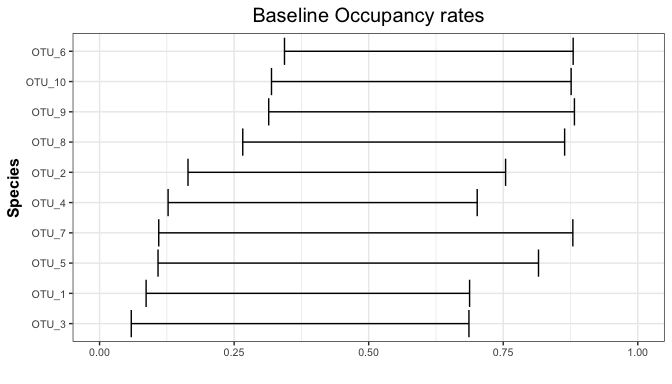
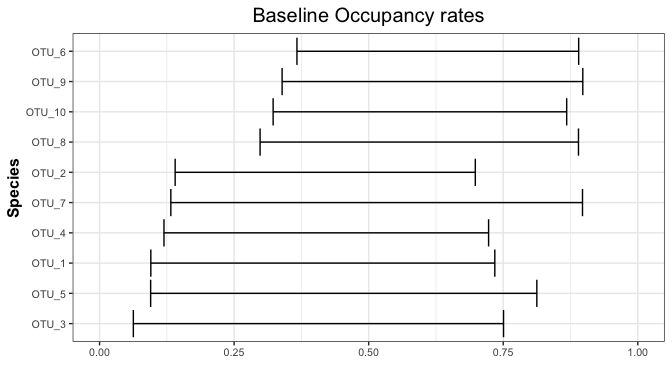
Document parallel chains in NEWS and the quickstart, and mark the stale thread note superseded

diff --git a/vignettes/occJSDM-00-quickstart.md b/vignettes/occJSDM-00-quickstart.md
@@ -69,7 +69,7 @@ head(sampledata$traits)
 It has three parts:
 
 - `info` has one row per PCR reaction: the `Site`, the field `Sample` the DNA came from, the `Primer`, and the covariates. Columns beginning `X_psi.` are occupancy covariates, columns beginning `X_theta.` are collection covariates, and `Xs.1` and `Xs.2` are the site coordinates.
-- Look at the `info` dataframe in detail. How many rows are there per site? Why?
+- Look at the `info` dataframe in detail. How many rows are there per site? Can you see why the number of PCRs per sample is `K = 2`?
 
 ``` r
 View(sampledata$info)
@@ -83,7 +83,7 @@ View(sampledata$info)
 
 ## Fit the model
 
-You can either load the precomputed model results from `sampleresults` or fit the model live. Fitting live will take up to several minutes depending on your machine but has the advantage of testing whether your machine can run occJSDM. On the other hand, using the same seed number only produces *exactly* the same results as in `sampleresults` if run on the same machine and software (M4 MacBook Air, macOS 27.0.1, R 4.5.0) and with the same model arguments (priors, number of chains). Running on a different platform could result in small numerical differences.
+You can either load the precomputed model results from `sampleresults` or fit the model live. Fitting live will take up to several minutes depending on your machine but has the advantage of testing whether your machine can run occJSDM. On the other hand, using the same seed number only produces *exactly* the same results as in `sampleresults` if run on the same machine and software (M4 MacBook Air, macOS 27.0.1, R 4.6.1) and with the same model arguments (priors, number of chains). Running on a different platform could result in small numerical differences.
 
 Choose this option
 
@@ -107,7 +107,7 @@ fit <- runOccJSDM(
   - The example includes the `spatCovariates` line to show how the full model is specified. The beta’s spatial model is very underpowered, though, so we recommend leaving that line out of your own fits for now.
 - The optional species trait data are taken from `sampledata$traits`.
 - `n_factors` is the number of latent factors that capture associations between species.
-- `MCMCparams` sets the number of chains, the burn-in and kept iterations, and the thinning.
+- `MCMCparams` sets the number of chains, the burn-in and kept iterations, and the thinning. Adding `ncores = 2` to the list runs the two chains on two cores at once; `ncores` is the total number of cores the fit may use.
 - The priors have defaults, which `listPriors` changes. `?runOccJSDM` describes every argument.
 
 Or choose this option. The rest of the lesson uses these precomputed results.
@@ -126,14 +126,14 @@ summary(diagnostics$rhat)
 ```
 
     #>    Min. 1st Qu.  Median    Mean 3rd Qu.    Max. 
-    #>  0.9999  1.0002  1.0010  1.0054  1.0053  1.0830
+    #>  0.9999  1.0002  1.0011  1.0060  1.0046  1.1009
 
 ``` r
 summary(diagnostics$ess)
 ```
 
     #>    Min. 1st Qu.  Median    Mean 3rd Qu.    Max. 
-    #>   137.7   438.0  2169.3  2538.8  4272.3  8402.3
+    #>   90.99  501.57 2172.56 2566.34 4163.83 9277.94
 
 ``` r
 head(diagnostics[order(-diagnostics$rhat), c("param", "label1", "label2", "rhat", "ess")])
@@ -142,19 +142,20 @@ head(diagnostics[order(-diagnostics$rhat), c("param", "label1", "label2", "rhat"
     #> # A tibble: 6 × 5
     #>   param      label1         label2  rhat   ess
     #>   <chr>      <chr>          <chr>  <dbl> <dbl>
-    #> 1 theta0     OTU_3          1       1.08  269.
-    #> 2 theta0     OTU_5          1       1.04  240.
-    #> 3 beta_psi   X_psi.EnvCov.2 OTU_7   1.04  151.
-    #> 4 beta0_psi  OTU_6          1       1.04  418.
-    #> 5 beta_theta (Intercept)    OTU_7   1.03  807.
-    #> 6 beta_psi   X_psi.EnvCov.2 OTU_5   1.03  148.
+    #> 1 theta0     OTU_3          1       1.10  170.
+    #> 2 beta_psi   X_psi.EnvCov.2 OTU_3   1.08  169.
+    #> 3 beta_psi   X_psi.EnvCov.1 OTU_3   1.05  166.
+    #> 4 beta0_psi  OTU_8          1       1.03  426.
+    #> 5 beta_theta (Intercept)    OTU_5   1.03  548.
+    #> 6 beta_psi   X_psi.EnvCov.2 OTU_6   1.03  311.
 
-`summary()` is base R’s own function, not occJSDM’s, so its help page is `?base::summary`. For a numeric column it reports the minimum, the quartiles, the mean and the maximum.
+`summary()` is base R’s own function, and for a numeric column it reports the minimum, the quartiles, the mean and the maximum.
 
 To browse the whole table, sorted with the worst `rhat` first:
 
 ``` r
-View(diagnostics[order(-diagnostics$rhat), c("param", "label1", "label2", "rhat", "ess")])
+View(diagnostics[order(-diagnostics$rhat), 
+                 c("param", "label1", "label2", "rhat", "ess")])
 ```
 
 `rhat` compares the chains with each other: values close to 1 mean they agree, and larger values call for longer runs or a closer look at the parameters concerned.
@@ -164,12 +165,13 @@ View(diagnostics[order(-diagnostics$rhat), c("param", "label1", "label2", "rhat"
 A common rule of thumb flags any coefficient with `rhat > 1.01` or `ess < 400`:
 
 ``` r
-nonconvergedcoefs <- diagnostics[order(-diagnostics$rhat), c("param", "label1", "label2", "rhat", "ess")] |>
-  dplyr::filter(rhat > 1.01 | ess < 400)
+nonconvergedcoefs <- diagnostics[order(-diagnostics$rhat), 
+                          c("param", "label1", "label2", "rhat", "ess")] |>
+          dplyr::filter(rhat > 1.01 | ess < 400)
 nrow(nonconvergedcoefs)
 ```
 
-    #> [1] 35
+    #> [1] 31
 
 ``` r
 head(nonconvergedcoefs)
@@ -178,16 +180,16 @@ head(nonconvergedcoefs)
     #> # A tibble: 6 × 5
     #>   param      label1         label2  rhat   ess
     #>   <chr>      <chr>          <chr>  <dbl> <dbl>
-    #> 1 theta0     OTU_3          1       1.08  269.
-    #> 2 theta0     OTU_5          1       1.04  240.
-    #> 3 beta_psi   X_psi.EnvCov.2 OTU_7   1.04  151.
-    #> 4 beta0_psi  OTU_6          1       1.04  418.
-    #> 5 beta_theta (Intercept)    OTU_7   1.03  807.
-    #> 6 beta_psi   X_psi.EnvCov.2 OTU_5   1.03  148.
+    #> 1 theta0     OTU_3          1       1.10  170.
+    #> 2 beta_psi   X_psi.EnvCov.2 OTU_3   1.08  169.
+    #> 3 beta_psi   X_psi.EnvCov.1 OTU_3   1.05  166.
+    #> 4 beta0_psi  OTU_8          1       1.03  426.
+    #> 5 beta_theta (Intercept)    OTU_5   1.03  548.
+    #> 6 beta_psi   X_psi.EnvCov.2 OTU_6   1.03  311.
 
-In this quickstart example, 35 of the 130 reported coefficients are flagged, which means that they are deemed not to have converged (i.e. are not reliable). The largest `rhat` is about 1.083, for the field false-positive rate (`theta0`) of `OTU_3`.
+In this quickstart example, 31 of the 130 reported coefficients are flagged, which means that they are deemed not to have converged (i.e. are not reliable). The largest `rhat` is about 1.10, for the field false-positive rate (`theta0`) of `OTU_3`.
 
-`plotTraceplot()` shows the chains themselves. Here are the `theta0` draws for `OTU_3` and, for comparison, `OTU_1`, whose `rhat` is 1.00:
+`plotTraceplot()` shows the chains themselves. Here are the `theta0` draws for `OTU_3` and, for comparison, `OTU_1`, whose `rhat` is 1.006:
 
 ``` r
 theta0_draws <- fit$results_output$theta0_output
@@ -198,9 +200,9 @@ plotTraceplot(theta0_draws[c(3, 1), , , drop = FALSE],
 
 ![](occJSDM-00-quickstart_files/figure-gfm/traceplot-1.png)<!-- -->
 
-For `OTU_1` the two chains overlap throughout. For `OTU_3`, chain 1 wanders upwards near the end of the run while chain 2 does not, and that disagreement is what `rhat` measures.
+For `OTU_1` the two chains overlap throughout. For `OTU_3`, chain 2 wanders upwards near the end of the run while chain 1 does not, and that disagreement is what `rhat` measures.
 
-The table does not cover every parameter. When it finishes, `runOccJSDM()` checks each block of parameters and warns about any block whose largest `rhat` exceeds 1.1 or whose smallest `ess` is below 50. For this fit it warned about the spatial-field coefficients (`Bs`) and the trait terms attached to them (`Gs`, `As`, `Cs`). You see these warnings only if you fit live, and they are another reason to leave the spatial field out of your own fits for now.
+The table does not cover every parameter. When it finishes, `runOccJSDM()` checks each block of parameters and warns about any block whose largest `rhat` exceeds 1.1 or whose smallest `ess` is below 50. For this fit it warned about the field false-positive rates (`theta0`), whose largest `rhat`, for `OTU_3`, is just above 1.1, and about the spatial-field coefficients (`Bs`) and the trait terms attached to them (`Gs`, `As`, `Cs`). You see these warnings only if you fit live. The spatial-field warnings are another reason to leave the spatial field out of your own fits for now.
 
 Normally, before going on, you would run longer chains and check them again, but note that more iterations do not guarantee that the chains will agree.
 

diff --git a/AGENTS.md b/AGENTS.md
@@ -167,6 +167,8 @@ Same principle as the group B evidence above: the TODO entries say what was done
 
 **What it does not fix.** Bit-reproducibility above one thread. TBB work-stealing decides which thread handles which species, and that assignment varies between runs *even at a fixed thread count*, so a species can draw from a different stream on each run. Measured max difference 0.126 on `B0` at 10 threads, 0 at one. This is weaker than the caveat `src/rng.h` documents, which claims reproducibility holds "for a given thread count". The remedy is to key draws on the species index rather than the thread, filed as *MEE paper* Alex to-do 8.
 
+**Superseded, 13 October 2026.** The paragraph above, and the Fixed bugs 41 advice in `TODO.md` to set `RCPP_PARALLEL_NUM_THREADS=1` for reproducible runs, describe the August 2026 state. Fixed bugs 50 (14 September 2026) moved every random draw onto the main thread, and `tests/testthat/test-rng-safety.R` asserts that fits are bit-identical at 1 and 4 requested threads for all four model types; it was re-run on the installed 0.1.1 build on 13 October 2026 and passes. Thread count no longer affects results. Parallel chains (`MCMCparams$ncores`, the parallel-chains spec under `dev/superpowers/specs/`) seed every chain on its own; what still affects reproducibility is the BLAS, as `?runOccJSDM` explains.
+
 ### The two de-exports (*Fixed bugs* 40 and 42)
 
 Both used the mechanism group D specifies for wrappers: remove the `// [[Rcpp::export]]` tag, re-run `Rcpp::compileAttributes()`, never hand-edit the generated `RcppExports.R`.

diff --git a/NEWS.md b/NEWS.md
@@ -1,5 +1,13 @@
 # occJSDM (development version)
 
+## New features
+
+-   `runOccJSDM()` can run its chains on separate cores: set `ncores` in `MCMCparams`. `ncores` is the total core budget, so `ncores = 4` runs four chains on four single-threaded workers and `ncores = 8` on four workers of two RcppParallel threads each. A parallel fit prints the `tail -f` command for its progress file. The returned `infos` records the sampling settings, the seeds of every chain and how the fit was run.
+
+## Behaviour changes
+
+-   Every chain is now seeded on its own, so a fit is identical whatever `ncores` says and no chain continues another's random stream. Because of this, a fit under a given `set.seed()` value gives different numbers from version 0.1.1; the shipped `sampleresults` was refitted under the new seeding with the same seed and settings. Identity across `ncores` is stated for a single-threaded BLAS; see `?runOccJSDM`.
+
 # occJSDM 0.1.1
 
 Second beta, released on GitHub as `v0.1.1-beta`. The model code, priors and shipped example data are unchanged from 0.1.0.
